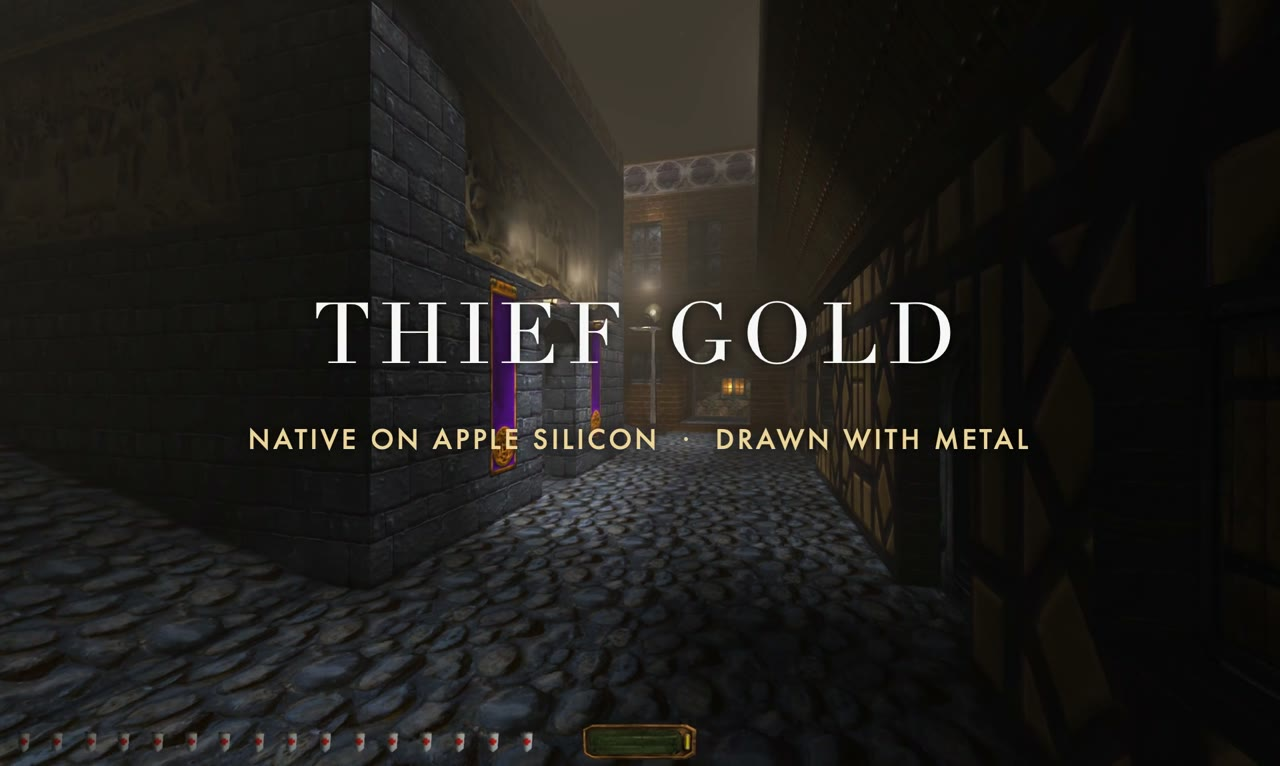
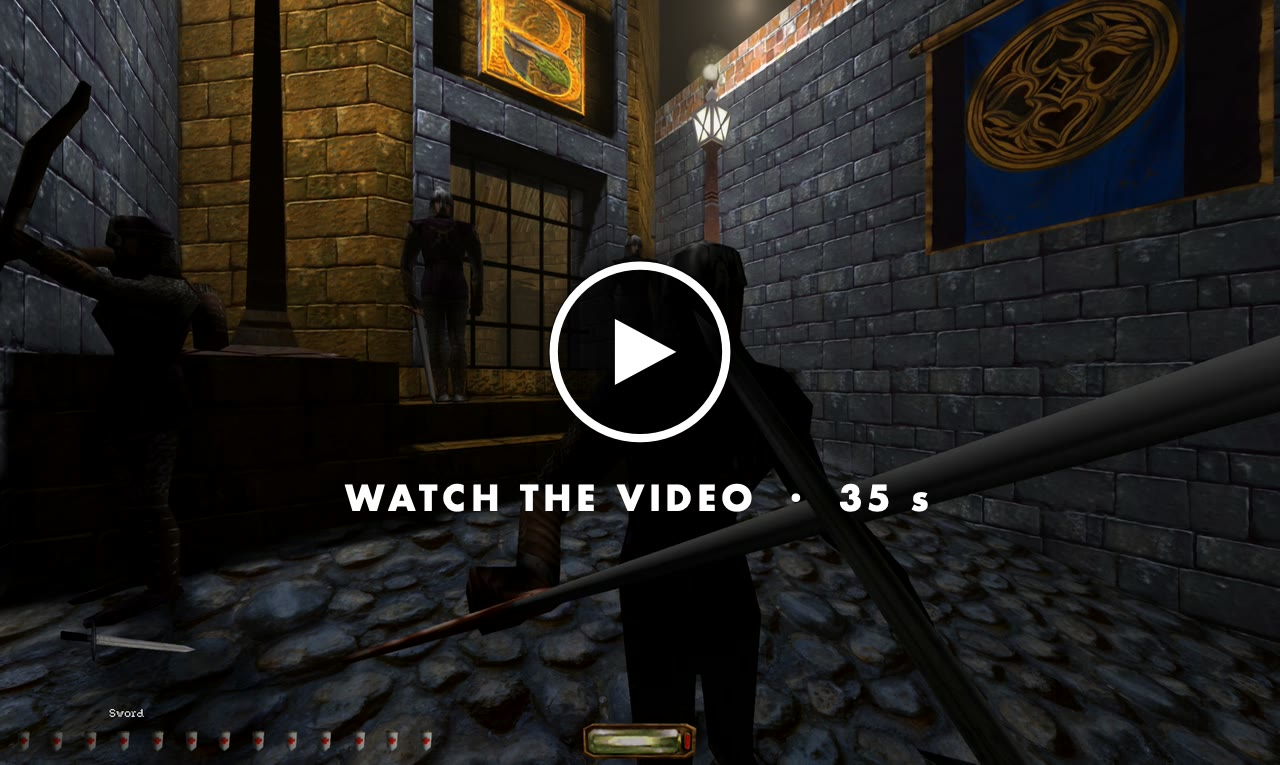
Thief Gold: the video poster gets a play button and a play link

diff --git a/games/thief-gold.md b/games/thief-gold.md
@@ -22,7 +22,9 @@
 
 ## Watch it
 
-[<img src="../images/thief-gold-video.jpg" alt="Watch Thief Gold on a Mac: a 35-second video" width="100%">](https://gkaragioul.github.io/mac-ports/videos/thief-gold.mp4)
+[<img src="../images/thief-gold-video.jpg" alt="Play button: watch Thief Gold on a Mac, a 35-second video" width="100%">](https://gkaragioul.github.io/mac-ports/videos/thief-gold.mp4)
+
+**▶ [Play the video (35 seconds)](https://gkaragioul.github.io/mac-ports/videos/thief-gold.mp4)**
 
 35 seconds of real gameplay recorded on a Mac, on the Quality setting: sword fights with Bafford's guards, broadhead arrows, a zombie attack, a fire elemental lighting up the fog, the haunted cathedral and the city at night. The video has no sound.
 
